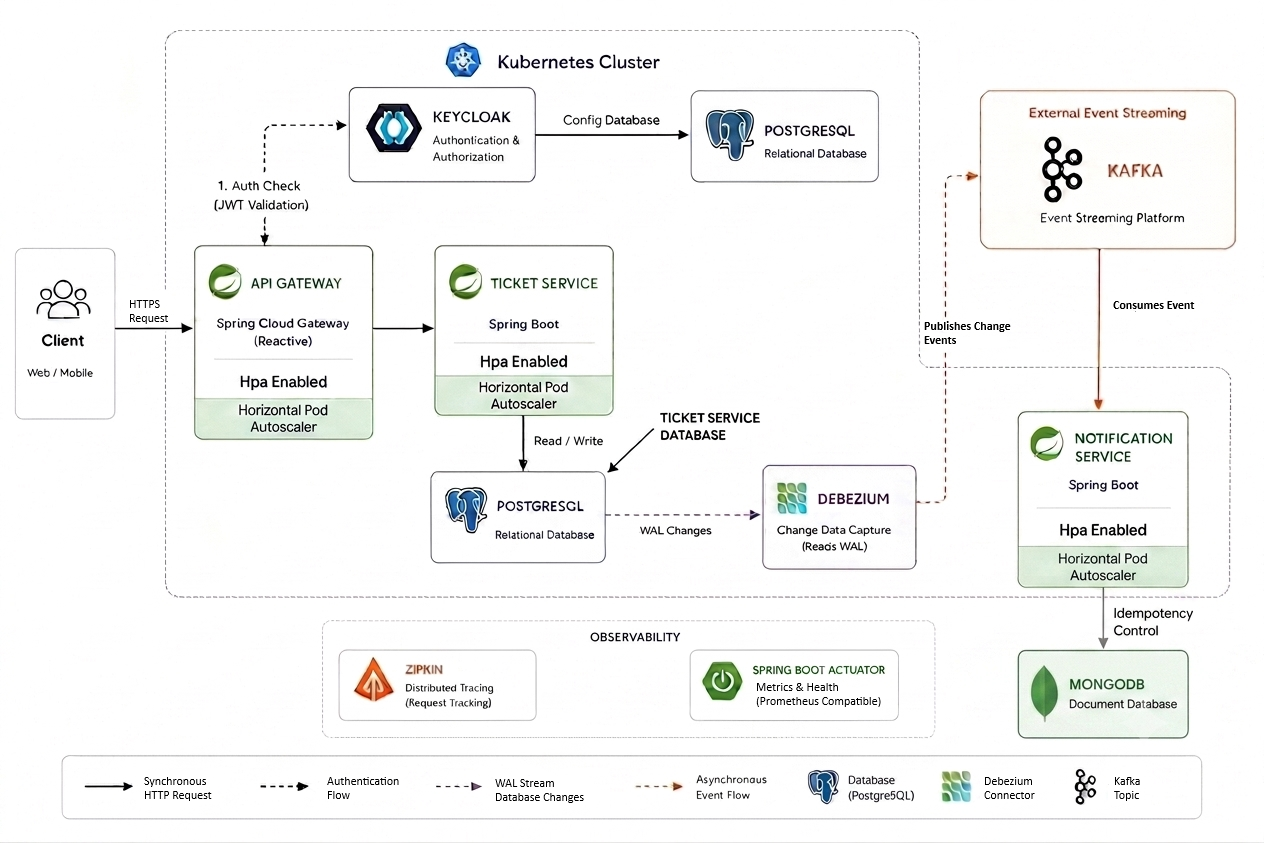
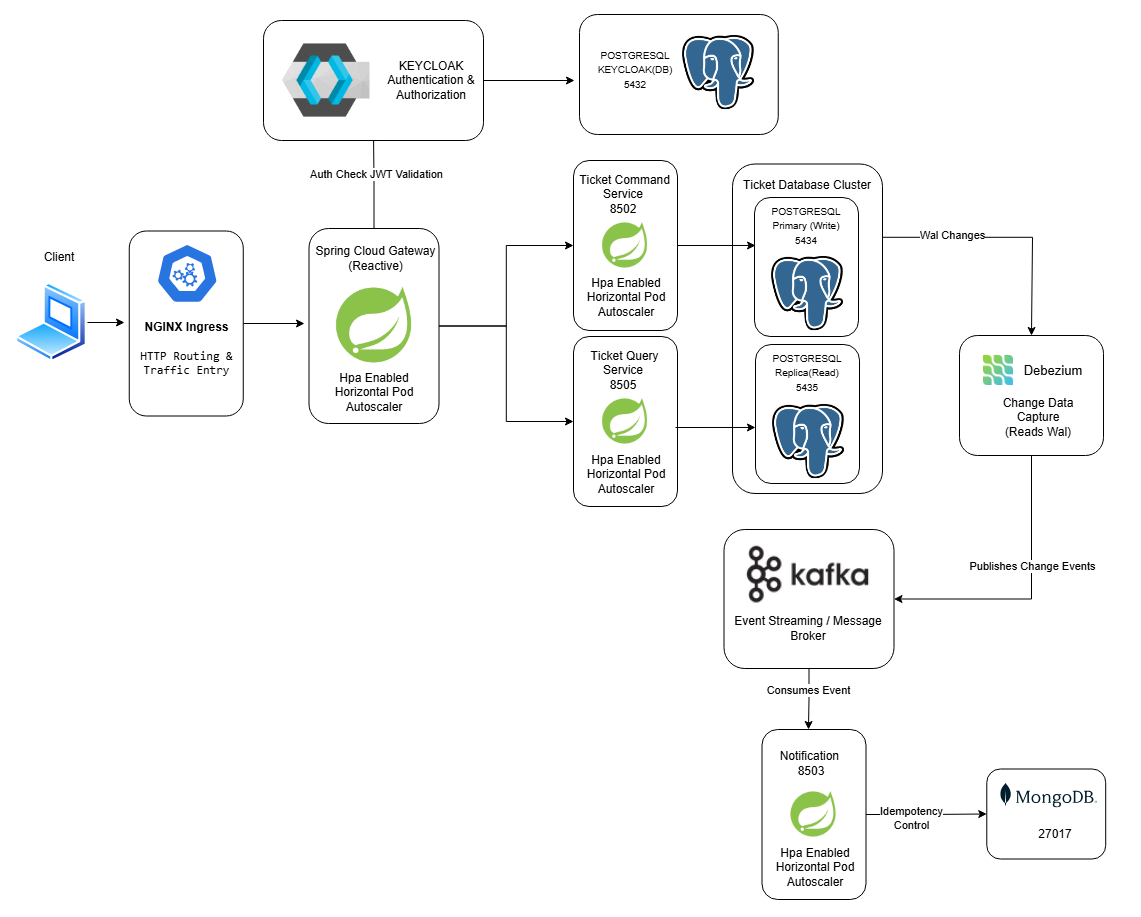
feat(cqrs): improve command and query services and update README

diff --git a/gateway/src/main/java/com/example/gateway/config/SecurityConfig.java b/gateway/src/main/java/com/example/gateway/config/SecurityConfig.java
@@ -26,37 +26,25 @@ public class SecurityConfig {
     public SecurityWebFilterChain securityWebFilterChain(ServerHttpSecurity http) {
         return http
                 .csrf(ServerHttpSecurity.CsrfSpec::disable)
-                .authorizeExchange(exchanges -> exchanges
-                        // Public endpoint'ler
+                .authorizeExchange(exchanges -> exchanges  
                         .pathMatchers("/public/**").permitAll()
                         .pathMatchers("/fallback/**").permitAll()
-
-                        // Admin rolü kontrolü (Önemli: hasRole("admin") "ROLE_admin" kontrol eder)
                         .pathMatchers("/admin/**").hasRole("admin")
-
                         .pathMatchers("/actuator/**").permitAll()
                         .pathMatchers("/actuator/health/**").permitAll()
-
-                        // Diğer tüm istekler authenticated olmalı
                         .pathMatchers("/api/**").authenticated()
                         .anyExchange().authenticated())
                 .oauth2ResourceServer(oauth2 -> oauth2
-                        // Yazdığımız reactive converter'ı buraya bağlıyoruz
                         .jwt(jwt -> jwt.jwtAuthenticationConverter(grantedAuthoritiesExtractor())))
                 .build();
     }
 
-    /**
-     * Keycloak'un 'realm_access.roles' yapısını parse edip, Spring'in anlayacağı
-     * 'ROLE_' önekiyle asenkron akışa (Flux/Mono) çeviren converter.
-     */
     private Converter<Jwt, Mono<AbstractAuthenticationToken>> grantedAuthoritiesExtractor() {
         ReactiveJwtAuthenticationConverter jwtAuthenticationConverter = new ReactiveJwtAuthenticationConverter();
 
         jwtAuthenticationConverter.setJwtGrantedAuthoritiesConverter(new Converter<Jwt, Flux<GrantedAuthority>>() {
             @Override
             public Flux<GrantedAuthority> convert(Jwt jwt) {
-                // Keycloak token yapısı: "realm_access": { "roles": ["admin", "user"] }
                 Map<String, Object> realmAccess = jwt.getClaim("realm_access");
 
                 if (realmAccess == null || !realmAccess.containsKey("roles")) {
@@ -64,9 +52,6 @@ public class SecurityConfig {
                 }
 
                 Collection<String> roles = (Collection<String>) realmAccess.get("roles");
-
-                // Rollerin başına "ROLE_" ekleyerek SimpleGrantedAuthority nesnesine
-                // çeviriyoruz
                 java.util.List<GrantedAuthority> authorities = roles.stream()
                         .map(roleName -> new SimpleGrantedAuthority("ROLE_" + roleName))
                         .collect(Collectors.toList());

diff --git a/README.md b/README.md
@@ -33,6 +33,8 @@ A sample microservices infrastructure built with Spring Boot and Spring Cloud, d
 - MongoDB integration for Notification Service
 - Idempotency control for duplicate event processing
 - Automated Integration Testing: End-to-end verification for database operations and event workflows.
+- CQRS architecture with separated command and query services
+- PostgreSQL primary/read replica architecture
 
 ---
 
@@ -41,47 +43,71 @@ A sample microservices infrastructure built with Spring Boot and Spring Cloud, d
 The project currently consists of:
 
 - API Gateway
-- Ticket Service
+- Ticket Service (Command)
+- Ticket Service Query (Query)
 - Notification Service
 - Kafka
 - Debezium
 - Keycloak
 - Zipkin
-- PostgreSQL
+- PostgreSQL Cluster
 - MongoDB
 
 ---
 
 # Event Flow
 
-The services communicate asynchronously using Kafka and Debezium.
+The Ticket Service writes to PostgreSQL Primary, while the Query Service reads from Read Replicas.
+
+PostgreSQL changes are captured by Debezium and published to Kafka.
 
 ```text
-Client
-   │
-   ▼
-API Gateway
-   │
-   ▼
-Ticket Service
-   │
-   │ Save Ticket
-   ▼
-PostgreSQL (ticketdb)
-   │
-   │ WAL
-   ▼
-Debezium
-   │
-   ▼
-Kafka
-   │
-   ▼
-Notification Service
-   │
-   │ Idempotency Check
-   ▼
-MongoDB
+┌──────────────────────┐
+│        Client        │
+└──────────┬───────────┘
+           │
+           ▼
+┌──────────────────────┐
+│     API Gateway      │
+└──────────┬───────────┘
+           │
+     ┌─────┴─────┐
+     │           │
+  Command       Query
+     │           │
+     ▼           ▼
+┌─────────────┐  ┌──────────────────┐
+│   Ticket    │  │  Ticket Query    │
+│   Service   │  │     Service      │
+│   (Write)   │  │     (Read)       │
+└──────┬──────┘  └────────┬─────────┘
+       │                  │
+       ▼                  ▼
+┌─────────────┐      ┌──────────────────┐
+│ PostgreSQL  │─────▶│ PostgreSQL       │
+│   Primary   │ WAL  │ Read Replica(s)  │
+└──────┬──────┘      └──────────────────┘
+       │
+       ▼
+┌─────────────┐
+│   Debezium  │
+└──────┬──────┘
+       │
+       ▼
+┌─────────────┐
+│    Kafka    │
+└──────┬──────┘
+       │
+       ▼
+┌──────────────────────┐
+│ Notification Service │
+└──────────┬───────────┘
+           │
+           ▼
+┌──────────────────────┐
+│       MongoDB        │
+│  Idempotency / Data  │
+└──────────────────────┘
 ```
 
 The Ticket Service writes only to PostgreSQL.
@@ -173,7 +199,9 @@ docker compose up -d
 
 This starts:
 
-- PostgreSQL
+- PostgreSQL Primary
+- PostgreSQL Read Replica
+- MongoDB
 - Kafka
 - Debezium
 - Keycloak
